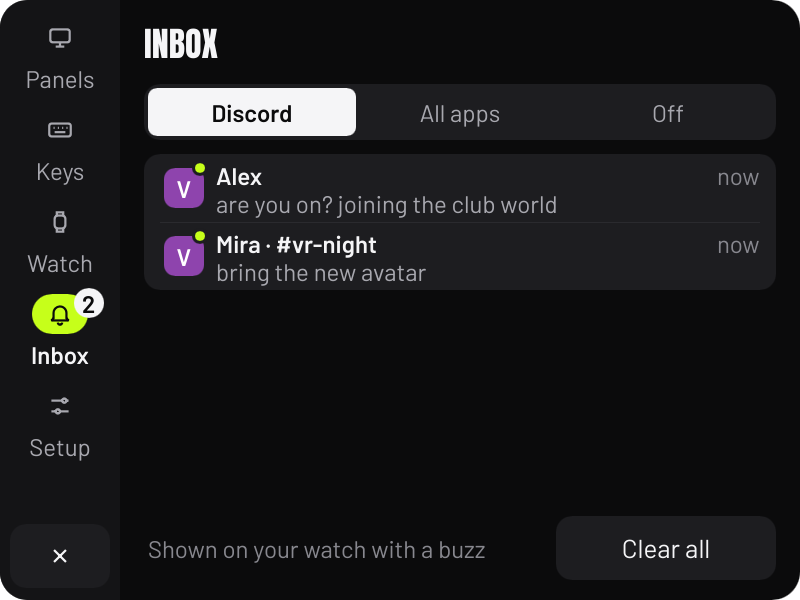
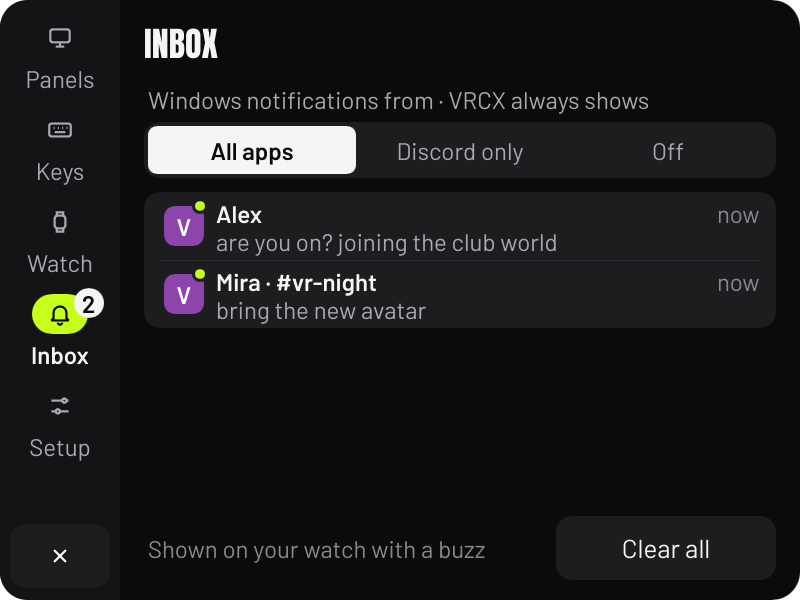
Watch: the song's cover in the music tiles (Windows), and the Inbox screenshot with its new label
The Music and Player layouts and the open watch showed a note where the cover goes; the cover was never read.
Now the media thread reads it from Windows' media session once per song (again while missing, as players set
it a moment after the title): the middle square, scaled to 128 px RGBA. The watch takes it only when it
changes, and rounds its corners like every tile (the software renderer clips square, so the card's colour
masks them). Linux keeps the note: MPRIS gives a URL, often remote.

diff --git a/crates/ui/src/lib.rs b/crates/ui/src/lib.rs
@@ -219,6 +219,9 @@ slint::slint! {
         in property <float> beat;
         in property <bool> beating;
         in property <bool> has-media;
+        // The song's cover; without one the music tiles show a note.
+        in property <image> cover;
+        in property <bool> has-cover;
         in property <string> media-title;
         in property <string> media-sub;
         in property <string> position;
@@ -433,8 +436,15 @@ slint::slint! {
                 x: 12px; y: 132px; width: 536px; height: 96px; border-radius: 20px; opacity: max(0, 1 - root.open * 3);
                 background: root.strip == 3 ? #2B1712 : #1D1D20; clip: true;
                 if root.strip == 1 : Rectangle {
-                    x: 14px; y: 16px; width: 64px; height: 64px; border-radius: 14px; background: #36363B;
-                    Path {
+                    x: 14px; y: 16px; width: 64px; height: 64px; border-radius: 14px; background: #36363B; clip: true;
+                    if root.has-cover : Image { width: parent.width; height: parent.height; source: root.cover; image-fit: ImageFit.cover; }
+                    // The renderer clips square: the card's colour rounds the cover's corners like every tile.
+                    if root.has-cover : Path {
+                        width: parent.width; height: parent.height; viewbox-width: 64; viewbox-height: 64;
+                        commands: "M0 14V0H14A14 14 0 0 0 0 14Z M50 0H64V14A14 14 0 0 0 50 0Z M64 50V64H50A14 14 0 0 0 64 50Z M14 64H0V50A14 14 0 0 0 14 64Z";
+                        fill: #1D1D20; stroke-width: 0px;
+                    }
+                    if !root.has-cover : Path {
                         width: 28px; height: 28px; viewbox-width: 24; viewbox-height: 24;
                         commands: "M9 18V5l11-2v13 M9 18a3 3 0 1 1-6 0a3 3 0 1 1 6 0z M20 16a3 3 0 1 1-6 0a3 3 0 1 1 6 0z";
                         stroke: #F5F5F7; stroke-width: 2.2px; fill: transparent;
@@ -488,8 +498,15 @@ slint::slint! {
             if root.open > 0 && root.has-media && !root.adding : Rectangle {
                 x: 12px; y: root.body-y * 1px; width: 536px; height: 306px; border-radius: 20px; background: #1D1D20; opacity: root.open;
                 Rectangle {
-                    x: 18px; y: 16px; width: 72px; height: 72px; border-radius: 14px; background: #36363B;
-                    Path {
+                    x: 18px; y: 16px; width: 72px; height: 72px; border-radius: 14px; background: #36363B; clip: true;
+                    if root.has-cover : Image { width: parent.width; height: parent.height; source: root.cover; image-fit: ImageFit.cover; }
+                    // The renderer clips square: the card's colour rounds the cover's corners like every tile.
+                    if root.has-cover : Path {
+                        width: parent.width; height: parent.height; viewbox-width: 72; viewbox-height: 72;
+                        commands: "M0 14V0H14A14 14 0 0 0 0 14Z M58 0H72V14A14 14 0 0 0 58 0Z M72 58V72H58A14 14 0 0 0 72 58Z M14 72H0V58A14 14 0 0 0 14 72Z";
+                        fill: #1D1D20; stroke-width: 0px;
+                    }
+                    if !root.has-cover : Path {
                         width: 30px; height: 30px; viewbox-width: 24; viewbox-height: 24;
                         commands: "M9 18V5l11-2v13 M9 18a3 3 0 1 1-6 0a3 3 0 1 1 6 0z M20 16a3 3 0 1 1-6 0a3 3 0 1 1 6 0z";
                         stroke: #F5F5F7; stroke-width: 2.2px; fill: transparent;
@@ -838,6 +855,9 @@ pub struct WristWindow {
     pub shown: bool,
 }
 
+/// Side of a song's cover in pixels (`WristMedia::cover`).
+pub const COVER_PX: u32 = 128;
+
 #[derive(Clone, Debug, Default, PartialEq)]
 pub struct WristMedia {
     pub title: String,
@@ -849,6 +869,8 @@ pub struct WristMedia {
     pub position: f32,
     pub duration: f32,
     pub shuffle: bool,
+    /// The cover, `COVER_PX` square, RGBA; `None` shows a note.
+    pub cover: Option<std::sync::Arc<[u8]>>,
 }
 
 #[derive(Clone, Debug, Default, PartialEq)]
@@ -885,6 +907,8 @@ pub struct Wrist {
     /// Bottom of the card (pixels), where the laser stops counting as "on the watch".
     card: f32,
     shown: Shown,
+    /// The cover last handed to the view (a new picture only when the song's cover changes).
+    cover: Option<std::sync::Arc<[u8]>>,
 }
 
 fn percent(v: Option<f32>) -> String {
@@ -954,7 +978,7 @@ impl Wrist {
         view.set_gpu_label(t("wrist-gpu"));
         view.set_ring_track(RING_TRACK.into());
         view.set_motion(motion());
-        Ok(Self { view, canvas, strings, inputs, targets, card: HEADER_H, shown: Shown::default() })
+        Ok(Self { view, canvas, strings, inputs, targets, card: HEADER_H, shown: Shown::default(), cover: None })
     }
 
     /// Accent colour (0xRRGGBB), from Setup > Theme.
@@ -1074,6 +1098,18 @@ impl Wrist {
         v.set_expanded(w.expanded);
         let media = w.media.clone().unwrap_or_default();
         v.set_has_media(w.media.is_some());
+        let same = |a: &Option<std::sync::Arc<[u8]>>, b: &Option<std::sync::Arc<[u8]>>| match (a, b) {
+            (Some(a), Some(b)) => std::sync::Arc::ptr_eq(a, b),
+            (a, b) => a.is_none() && b.is_none(),
+        };
+        let cover = media.cover.clone().filter(|px| px.len() == (COVER_PX * COVER_PX * 4) as usize);
+        if !same(&self.cover, &cover) {
+            v.set_has_cover(cover.is_some());
+            v.set_cover(cover.as_deref().map_or_else(slint::Image::default, |px| {
+                slint::Image::from_rgba8(slint::SharedPixelBuffer::clone_from_slice(px, COVER_PX, COVER_PX))
+            }));
+            self.cover = cover;
+        }
         v.set_playing(media.playing);
         v.set_media_title(media.title.as_str().into());
         let sub = match (media.artist.is_empty(), media.app.is_empty()) {
@@ -1282,7 +1318,25 @@ mod tests {
             position: 72.0,
             duration: 220.0,
             shuffle: false,
+            cover: None,
         }
+    }
+
+    #[test]
+    fn the_song_cover_replaces_the_note_and_goes_with_the_song() {
+        let mut wrist = Wrist::new().expect("wrist");
+        let px: std::sync::Arc<[u8]> = vec![200u8; (COVER_PX * COVER_PX * 4) as usize].into();
+        let with = |cover| WristInfo { media: Some(WristMedia { cover, ..song() }), ..WristInfo::default() };
+        wrist.set(&with(Some(px.clone())));
+        assert!(wrist.view.get_has_cover() && wrist.view.get_cover().size().width == COVER_PX);
+        // The same cover again (the media thread hands the same one each second): kept, not uploaded anew.
+        wrist.set(&with(Some(px.clone())));
+        assert!(wrist.cover.as_ref().is_some_and(|c| std::sync::Arc::ptr_eq(c, &px)));
+        // A cover of the wrong size is ignored; no cover shows the note.
+        wrist.set(&with(Some(vec![1u8; 12].into())));
+        assert!(!wrist.view.get_has_cover());
+        wrist.set(&with(None));
+        assert!(!wrist.view.get_has_cover());
     }
 
     #[test]

diff --git a/crates/sys/src/win/media.rs b/crates/sys/src/win/media.rs
@@ -10,8 +10,13 @@
 use std::sync::mpsc::{self, RecvTimeoutError, Sender};
 use std::sync::{Arc, Mutex};
 use std::time::{Duration, Instant};
+use windows::Graphics::Imaging::{
+    BitmapAlphaMode, BitmapBounds, BitmapDecoder, BitmapInterpolationMode, BitmapPixelFormat, BitmapTransform,
+    ColorManagementMode, ExifOrientationMode,
+};
 use windows::Media::Control::{
     GlobalSystemMediaTransportControlsSession as Session, GlobalSystemMediaTransportControlsSessionManager as Manager,
+    GlobalSystemMediaTransportControlsSessionMediaProperties as Properties,
     GlobalSystemMediaTransportControlsSessionPlaybackStatus as Status,
 };
 use windows::Win32::Foundation::CloseHandle;
@@ -39,7 +44,12 @@ pub struct MediaInfo {
     pub duration: f32,
     pub shuffle: bool,
     pub at: Instant,
+    /// The song's cover, `COVER_PX` square, RGBA (None when the player gives none).
+    pub cover: Option<Arc<[u8]>>,
 }
+
+/// Side of a song's cover in pixels: sharp on the watch's largest tile (72 px).
+pub const COVER_PX: u32 = 128;
 
 impl MediaInfo {
     /// Position now, counting on from `at` while playing.
@@ -96,12 +106,59 @@ fn now_ticks() -> i64 {
     (i64::from(ft.dwHighDateTime) << 32) | i64::from(ft.dwLowDateTime)
 }
 
-fn read(manager: &Manager) -> Option<MediaInfo> {
+/// The last song and its cover: read once per song, and again while missing (a player may set it a moment after
+/// the title).
+#[derive(Default)]
+struct Covers {
+    song: (String, String),
+    cover: Option<Arc<[u8]>>,
+}
+
+/// A cover from the media session: the middle square of its thumbnail, scaled to `COVER_PX`.
+fn cover(props: &Properties) -> Option<Arc<[u8]>> {
+    let stream = props.Thumbnail().ok()?.OpenReadAsync().ok()?.get().ok()?;
+    let decoder = BitmapDecoder::CreateAsync(&stream).ok()?.get().ok()?;
+    let (w, h) = (decoder.OrientedPixelWidth().ok()?, decoder.OrientedPixelHeight().ok()?);
+    let side = w.min(h);
+    if side == 0 {
+        return None;
+    }
+    let scaled = |n: u32| ((u64::from(n) * u64::from(COVER_PX)).div_ceil(u64::from(side)) as u32).max(COVER_PX);
+    let (sw, sh) = (scaled(w), scaled(h));
+    let t = BitmapTransform::new().ok()?;
+    t.SetScaledWidth(sw).ok()?;
+    t.SetScaledHeight(sh).ok()?;
+    t.SetInterpolationMode(BitmapInterpolationMode::Fant).ok()?;
+    t.SetBounds(BitmapBounds { X: (sw - COVER_PX) / 2, Y: (sh - COVER_PX) / 2, Width: COVER_PX, Height: COVER_PX })
+        .ok()?;
+    let pixels = decoder
+        .GetPixelDataTransformedAsync(
+            BitmapPixelFormat::Rgba8,
+            BitmapAlphaMode::Straight,
+            &t,
+            ExifOrientationMode::RespectExifOrientation,
+            ColorManagementMode::DoNotColorManage,
+        )
+        .ok()?
+        .get()
+        .ok()?
+        .DetachPixelData()
+        .ok()?;
+    (pixels.len() == (COVER_PX * COVER_PX * 4) as usize).then(|| Arc::from(&pixels[..]))
+}
+
+fn read(manager: &Manager, covers: &mut Covers) -> Option<MediaInfo> {
     let session = manager.GetCurrentSession().ok()?;
     let props = session.TryGetMediaPropertiesAsync().ok()?.get().ok()?;
     let title = props.Title().ok()?.to_string_lossy();
     if title.is_empty() {
         return None;
+    }
+    let artist = props.Artist().map(|a| a.to_string_lossy()).unwrap_or_default();
+    let song = (title.clone(), artist.clone());
+    if covers.song != song || covers.cover.is_none() {
+        covers.cover = cover(&props);
+        covers.song = song;
     }
     let info = session.GetPlaybackInfo().ok();
     let playing = info.as_ref().and_then(|p| p.PlaybackStatus().ok()) == Some(Status::Playing);
@@ -124,13 +181,14 @@ fn read(manager: &Manager) -> Option<MediaInfo> {
     let app = session.SourceAppUserModelId().map(|s| app_name(&s.to_string_lossy())).unwrap_or_default();
     Some(MediaInfo {
         title,
-        artist: props.Artist().map(|a| a.to_string_lossy()).unwrap_or_default(),
+        artist,
         app,
         playing,
         position,
         duration,
         shuffle,
         at: Instant::now(),
+        cover: covers.cover.clone(),
     })
 }
 
@@ -295,8 +353,9 @@ impl Media {
             // SAFETY: initialises COM for this thread only (needed for the volume).
             let _ = unsafe { CoInitializeEx(None, COINIT_MULTITHREADED) };
             let manager = Manager::RequestAsync().and_then(|op| op.get()).ok();
+            let mut covers = Covers::default();
             loop {
-                let media = manager.as_ref().and_then(read);
+                let media = manager.as_ref().and_then(|m| read(m, &mut covers));
                 let session = manager.as_ref().and_then(|m| m.GetCurrentSession().ok());
                 let player = session.as_ref().and_then(|s| s.SourceAppUserModelId().ok()).unwrap_or_default();
                 let volume = Volume::of(&player.to_string_lossy());

diff --git a/crates/sys/src/linux/media.rs b/crates/sys/src/linux/media.rs
@@ -24,7 +24,12 @@ pub struct MediaInfo {
     pub duration: f32,
     pub shuffle: bool,
     pub at: Instant,
+    /// The song's cover, `COVER_PX` square, RGBA. Not read on Linux yet (MPRIS gives a URL, often remote).
+    pub cover: Option<std::sync::Arc<[u8]>>,
 }
+
+/// Side of a song's cover in pixels (see the Windows side).
+pub const COVER_PX: u32 = 128;
 
 impl MediaInfo {
     /// Position now, counting on from `at` while playing.
@@ -150,6 +155,7 @@ fn read(conn: &Connection) -> Option<(Player, MediaInfo, Volume)> {
         duration: meta.get("mpris:length").and_then(micros).unwrap_or(0.0),
         shuffle: p.get_property::<bool>("Shuffle").unwrap_or(false),
         at: Instant::now(),
+        cover: None,
     };
     let volume = p.get_property::<f64>("Volume").ok().map(|v| (v.clamp(0.0, 1.0) as f32, v <= 0.0));
     Some((Player { name, proxy: p, unmuted: None }, info, volume))

diff --git a/crates/app/src/gates_menu.rs b/crates/app/src/gates_menu.rs
@@ -589,6 +589,7 @@ mod tests {
             position: 72.0,
             duration: 220.0,
             shuffle: false,
+            cover: None,
         };
         let mut info = WristInfo {
             hour: 21,
@@ -746,6 +747,15 @@ mod tests {
             position: 4000.0,
             duration: 36_000.0,
             shuffle: true,
+            // A stand-in cover: a diagonal blend, so the tiles show a picture and its rounded corners.
+            cover: Some(
+                (0..wxr_ui::COVER_PX * wxr_ui::COVER_PX)
+                    .flat_map(|i| {
+                        let (x, y) = (i % wxr_ui::COVER_PX, i / wxr_ui::COVER_PX);
+                        [(x * 2) as u8, 90, (y * 2) as u8, 255]
+                    })
+                    .collect(),
+            ),
         };
         let info = WristInfo {
             hour: 23,

diff --git a/crates/app/src/run.rs b/crates/app/src/run.rs
@@ -53,6 +53,8 @@ const BEAT_STEP: Duration = Duration::from_millis(22);
 /// A screen goes to a smaller picture only after wanting it this long (a larger one comes at once), so walking
 /// about or a panel in hand never flips it back and forth.
 const COARSER_AFTER: Duration = Duration::from_millis(600);
+// The media session reads covers at the size the watch expects.
+const _: () = assert!(wxr_sys::COVER_PX == wxr_ui::COVER_PX);
 /// SteamVR's texture bounds for a whole texture: u and v, min then max.
 const FULL_TEXTURE: [f32; 4] = [0.0, 0.0, 1.0, 1.0];
 
@@ -218,6 +220,7 @@ fn wrist_info(
             position: if expanded { m.position_now() } else { 0.0 },
             duration: m.duration,
             shuffle: m.shuffle,
+            cover: m.cover.clone(),
         }),
         ..WristInfo::default()
     }

diff --git a/crates/sys/src/linux/mod.rs b/crates/sys/src/linux/mod.rs
@@ -9,7 +9,7 @@ mod media;
 mod process;
 mod toasts;
 
-pub use media::{Media, MediaCommand, MediaInfo, app_name};
+pub use media::{COVER_PX, Media, MediaCommand, MediaInfo, app_name};
 pub use process::{Instance, ProcessWatch, exit_watchdog, single_instance, terminate};
 pub use toasts::{Access as ToastAccess, AppToast, AppToasts};
 

diff --git a/crates/sys/src/win/mod.rs b/crates/sys/src/win/mod.rs
@@ -8,7 +8,7 @@ mod media;
 mod process;
 mod toasts;
 
-pub use media::{Media, MediaCommand, MediaInfo, app_name};
+pub use media::{COVER_PX, Media, MediaCommand, MediaInfo, app_name};
 pub use process::{Instance, ProcessWatch, exit_watchdog, single_instance, terminate};
 pub use toasts::{Access as ToastAccess, AppToast, AppToasts};
 

diff --git a/CHANGELOG.md b/CHANGELOG.md
@@ -53,6 +53,8 @@ First public early-access release (Windows).
   after a restart. Menu > Reset layout (or changing the watch hand) puts it back.
 
 ### Added
+- The song's cover on the watch (Music and Player layouts, and the open watch), read from Windows' media session,
+  in place of the note. Linux keeps the note for now.
 - Linux: WristXR runs on Linux with SteamVR for Linux, on X11 and on Wayland. On Wayland, screens, windows,
   keyboard and pointer go through the desktop portal (asked once, remembered after); frames come from PipeWire.
   Panels reach SteamVR through Vulkan. The tray, Discord and other app notifications on the watch, media controls
